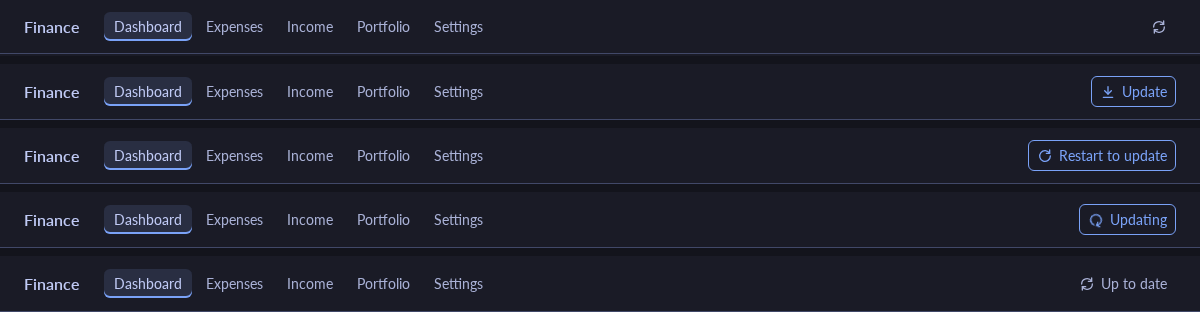
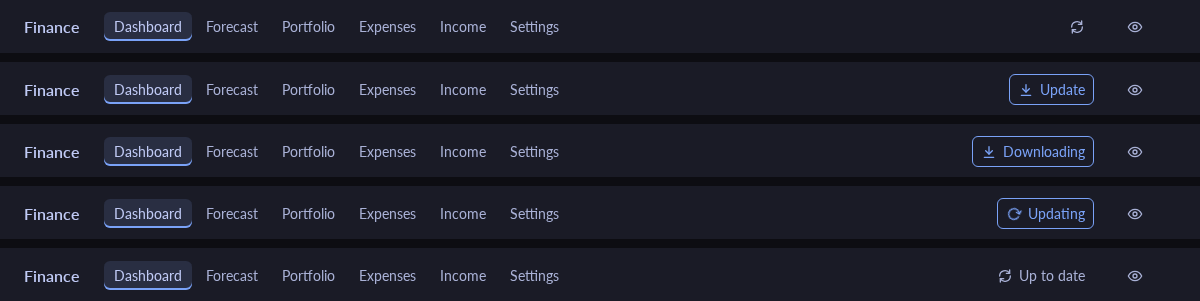
Show the one-click update in the README's button states

diff --git a/README.md b/README.md
@@ -46,7 +46,7 @@ the restart (local changes in the checkout, for example), the button says
 the changes first; the release notes on GitHub list them. Updates never touch
 the data.
 
-![The update button: check, Update, Restart to update, Updating, Up to date](docs/update.png)
+![The update button: check, Update, Downloading, Updating, Up to date](docs/update.png)
 
 Settings › General › Updates chooses which updates the button offers. **Stable**, the
 default, offers releases. **Preview** offers every change on `main` as soon
